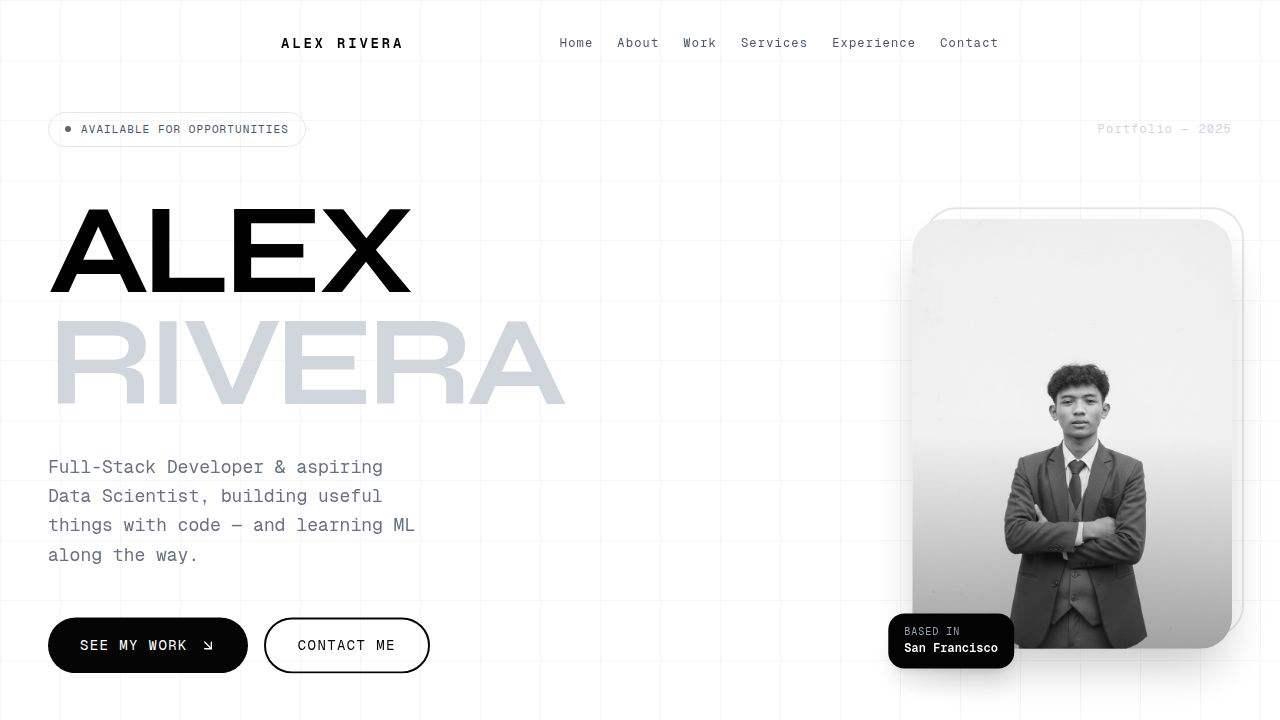
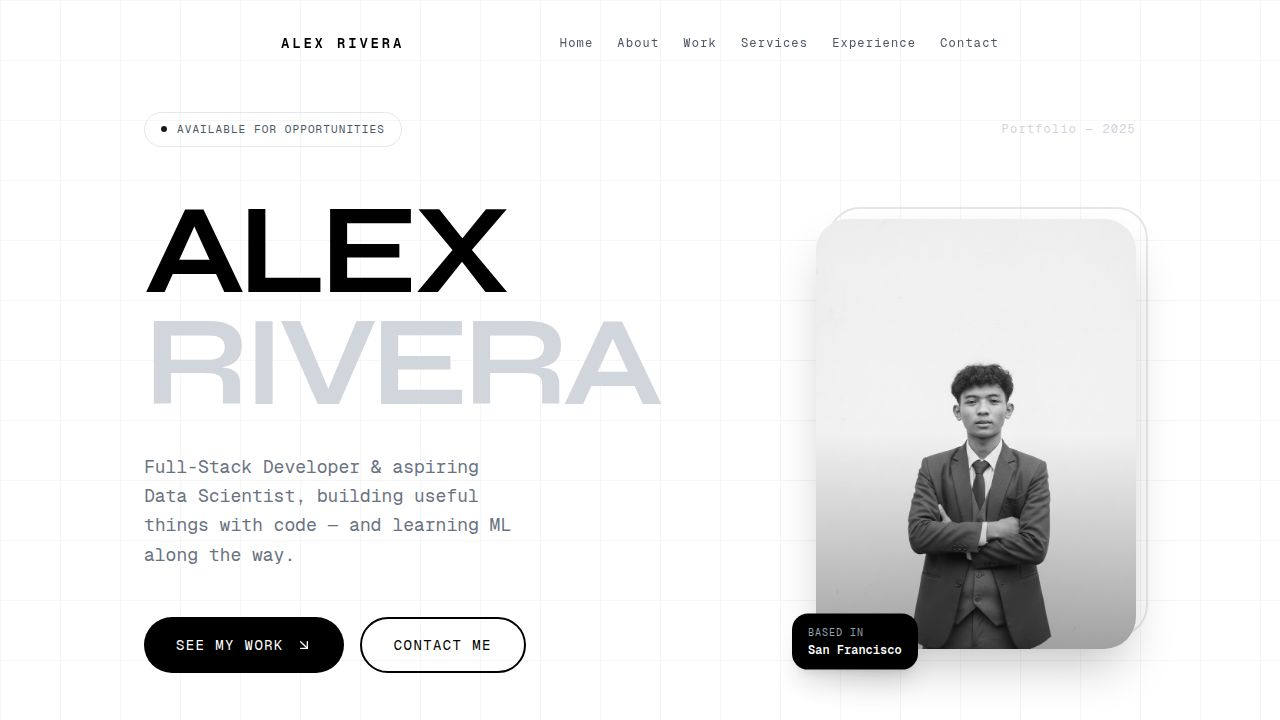
Add more space around hero section content
Increase horizontal padding on the hero section container from px-6 md:px-12 to px-8 md:px-16 lg:px-28 xl:px-36.

Replit-Commit-Author: Agent
Replit-Commit-Session-Id: daea43bd-fffe-42ac-93be-6e9a386dc061
Replit-Commit-Checkpoint-Type: full_checkpoint
Replit-Commit-Event-Id: 9eebb731-97ba-4b17-8200-d55728d78d9d
Replit-Commit-Screenshot-Url: https://storage.googleapis.com/screenshot-production-us-central1/6cbe44b4-57d1-48b1-bdc4-7cc6e6c743b2/daea43bd-fffe-42ac-93be-6e9a386dc061/ILiv97i
Replit-Helium-Checkpoint-Created: true

diff --git a/artifacts/portfolio/src/components/sections/Hero.tsx b/artifacts/portfolio/src/components/sections/Hero.tsx
@@ -26,7 +26,7 @@ export function Hero() {
         }}
       />
 
-      <div className="container mx-auto px-6 md:px-12 relative z-10">
+      <div className="container mx-auto px-8 md:px-16 lg:px-28 xl:px-36 relative z-10">
         {/* Top row */}
         <motion.div
           initial={{ opacity: 0, y: 12 }}
